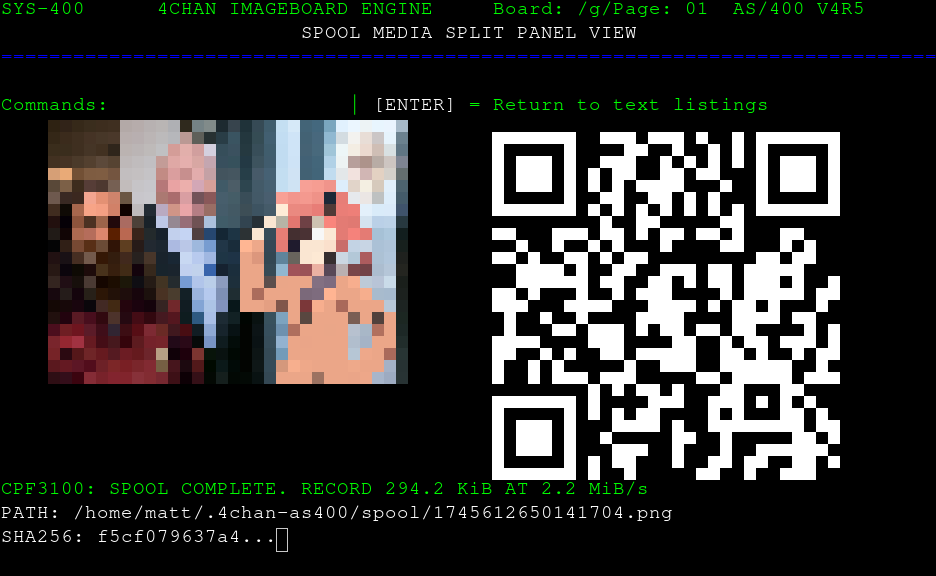
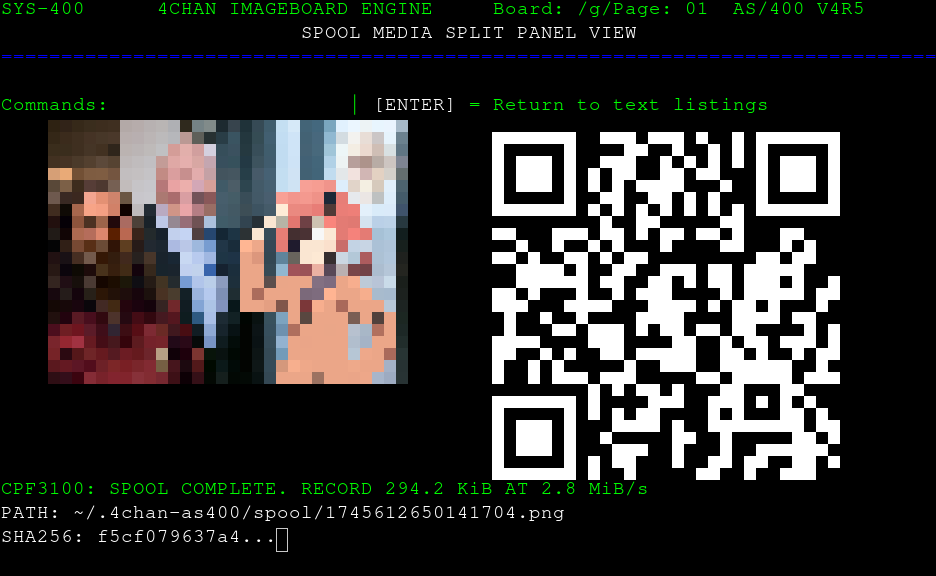
Scrub DL receipt path: show ~ instead of absolute home dir (no username in screenshots)

Changed region(s): [[0.0929, 0.875, 0.7126, 0.9062]]

diff --git a/4chanas400.py b/4chanas400.py
@@ -434,9 +434,11 @@ async def shell(reader, writer):
                 await asyncio.sleep(1.0)
             else:
                 digest_short = dl_receipt["sha256"][:12]
+                home = os.path.expanduser("~")
+                path_display = ("~" + dl_receipt["path"][len(home):]) if dl_receipt["path"].startswith(home) else dl_receipt["path"]
                 receipt_lines = [
                     f"\x1b[1;32mCPF3100: SPOOL COMPLETE. RECORD {dl_receipt['size_str']} AT {dl_receipt['speed_str']}\x1b[0m",
-                    f"\x1b[1;37mPATH: {dl_receipt['path']}\x1b[0m",
+                    f"\x1b[1;37mPATH: {path_display}\x1b[0m",
                     f"\x1b[1;37mSHA256: {digest_short}...\x1b[0m",
                 ]
                 for r_idx, r_line in enumerate(receipt_lines):
